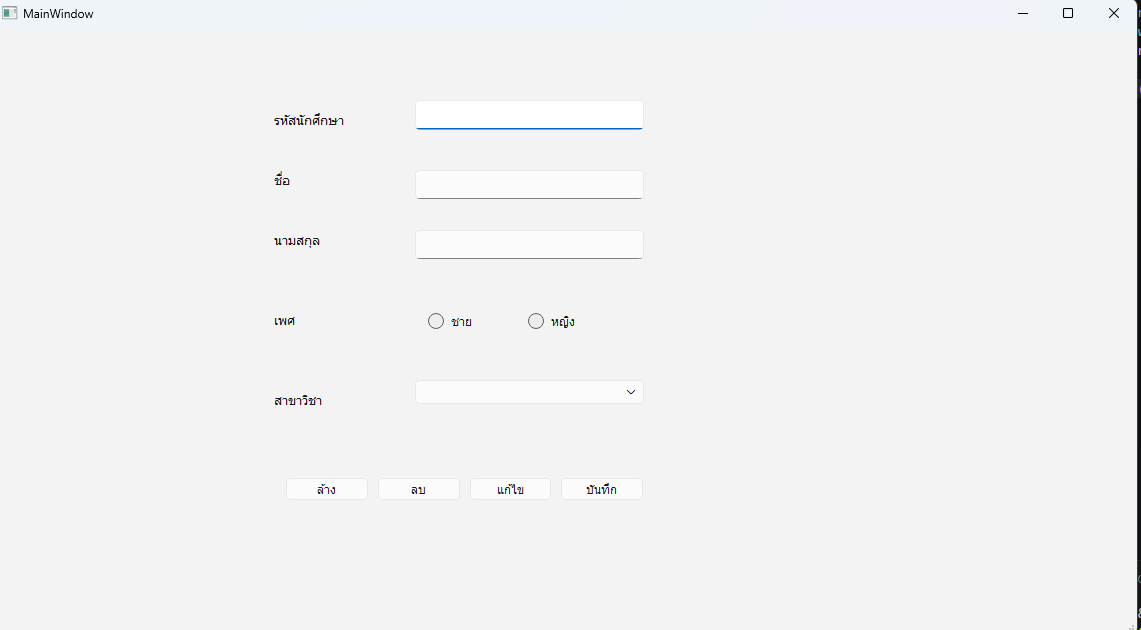
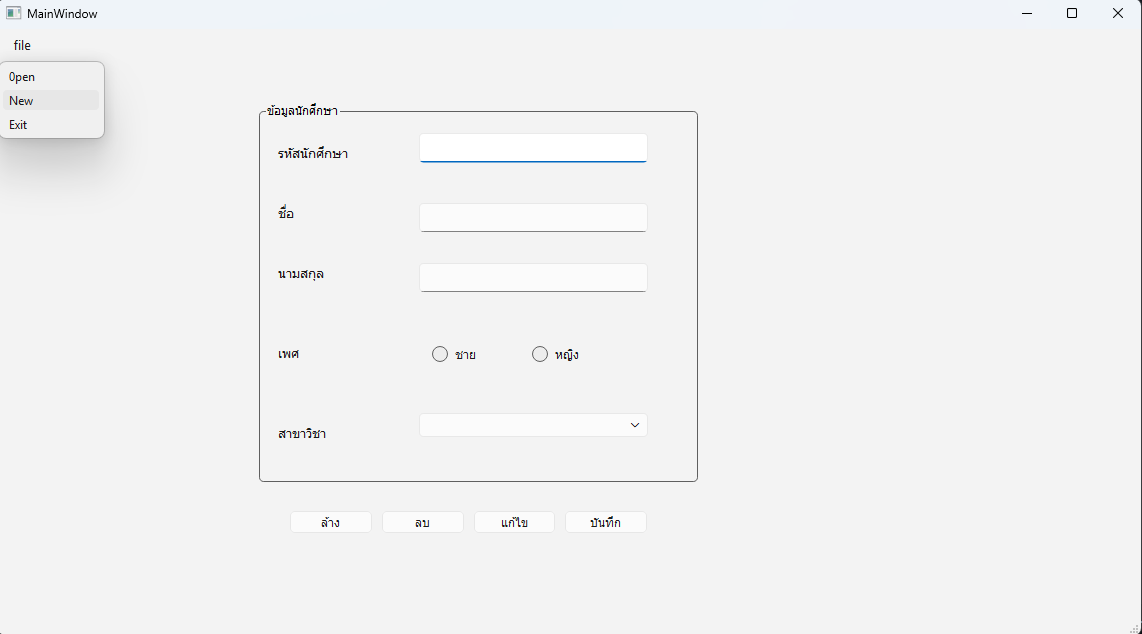
two commit

diff --git a/mystudent.py b/mystudent.py
@@ -11,19 +11,27 @@
 from PySide6.QtCore import (QCoreApplication, QDate, QDateTime, QLocale,
     QMetaObject, QObject, QPoint, QRect,
     QSize, QTime, QUrl, Qt)
-from PySide6.QtGui import (QBrush, QColor, QConicalGradient, QCursor,
-    QFont, QFontDatabase, QGradient, QIcon,
-    QImage, QKeySequence, QLinearGradient, QPainter,
-    QPalette, QPixmap, QRadialGradient, QTransform)
-from PySide6.QtWidgets import (QApplication, QComboBox, QHBoxLayout, QLabel,
-    QLineEdit, QMainWindow, QMenuBar, QPushButton,
-    QRadioButton, QSizePolicy, QStatusBar, QWidget)
+from PySide6.QtGui import (QAction, QBrush, QColor, QConicalGradient,
+    QCursor, QFont, QFontDatabase, QGradient,
+    QIcon, QImage, QKeySequence, QLinearGradient,
+    QPainter, QPalette, QPixmap, QRadialGradient,
+    QTransform)
+from PySide6.QtWidgets import (QApplication, QComboBox, QGroupBox, QHBoxLayout,
+    QLabel, QLineEdit, QMainWindow, QMenu,
+    QMenuBar, QPushButton, QRadioButton, QSizePolicy,
+    QStatusBar, QWidget)
 
 class Ui_MainWindow(object):
     def setupUi(self, MainWindow):
         if not MainWindow.objectName():
             MainWindow.setObjectName(u"MainWindow")
         MainWindow.resize(1143, 606)
+        self.actionopen = QAction(MainWindow)
+        self.actionopen.setObjectName(u"actionopen")
+        self.actionNew = QAction(MainWindow)
+        self.actionNew.setObjectName(u"actionNew")
+        self.actionExit = QAction(MainWindow)
+        self.actionExit.setObjectName(u"actionExit")
         self.centralwidget = QWidget(MainWindow)
         self.centralwidget.setObjectName(u"centralwidget")
         self.student_id_box = QLineEdit(self.centralwidget)
@@ -93,14 +101,24 @@ class Ui_MainWindow(object):
 
         self.horizontalLayout.addWidget(self.pushButton_4)
 
+        self.groupBox = QGroupBox(self.centralwidget)
+        self.groupBox.setObjectName(u"groupBox")
+        self.groupBox.setGeometry(QRect(260, 40, 441, 381))
         MainWindow.setCentralWidget(self.centralwidget)
         self.menu_button = QMenuBar(MainWindow)
         self.menu_button.setObjectName(u"menu_button")
         self.menu_button.setGeometry(QRect(0, 0, 1143, 33))
+        self.menuopen = QMenu(self.menu_button)
+        self.menuopen.setObjectName(u"menuopen")
         MainWindow.setMenuBar(self.menu_button)
         self.menu_button_2 = QStatusBar(MainWindow)
         self.menu_button_2.setObjectName(u"menu_button_2")
         MainWindow.setStatusBar(self.menu_button_2)
+
+        self.menu_button.addAction(self.menuopen.menuAction())
+        self.menuopen.addAction(self.actionopen)
+        self.menuopen.addAction(self.actionNew)
+        self.menuopen.addAction(self.actionExit)
 
         self.retranslateUi(MainWindow)
 
@@ -109,6 +127,9 @@ class Ui_MainWindow(object):
 
     def retranslateUi(self, MainWindow):
         MainWindow.setWindowTitle(QCoreApplication.translate("MainWindow", u"MainWindow", None))
+        self.actionopen.setText(QCoreApplication.translate("MainWindow", u"0pen", None))
+        self.actionNew.setText(QCoreApplication.translate("MainWindow", u"New", None))
+        self.actionExit.setText(QCoreApplication.translate("MainWindow", u"Exit", None))
         self.student_id.setText(QCoreApplication.translate("MainWindow", u"\u0e23\u0e2b\u0e31\u0e2a\u0e19\u0e31\u0e01\u0e28\u0e36\u0e01\u0e29\u0e32", None))
         self.firstname.setText(QCoreApplication.translate("MainWindow", u"\u0e0a\u0e37\u0e48\u0e2d", None))
         self.lastname.setText(QCoreApplication.translate("MainWindow", u"\u0e19\u0e32\u0e21\u0e2a\u0e01\u0e38\u0e25", None))
@@ -120,5 +141,7 @@ class Ui_MainWindow(object):
         self.pushButton_2.setText(QCoreApplication.translate("MainWindow", u"\u0e25\u0e1a", None))
         self.pushButton_3.setText(QCoreApplication.translate("MainWindow", u"\u0e41\u0e01\u0e49\u0e44\u0e02", None))
         self.pushButton_4.setText(QCoreApplication.translate("MainWindow", u"\u0e1a\u0e31\u0e19\u0e17\u0e36\u0e01", None))
+        self.groupBox.setTitle(QCoreApplication.translate("MainWindow", u"\u0e02\u0e49\u0e2d\u0e21\u0e39\u0e25\u0e19\u0e31\u0e01\u0e28\u0e36\u0e01\u0e29\u0e32", None))
+        self.menuopen.setTitle(QCoreApplication.translate("MainWindow", u"file", None))
     # retranslateUi
 
